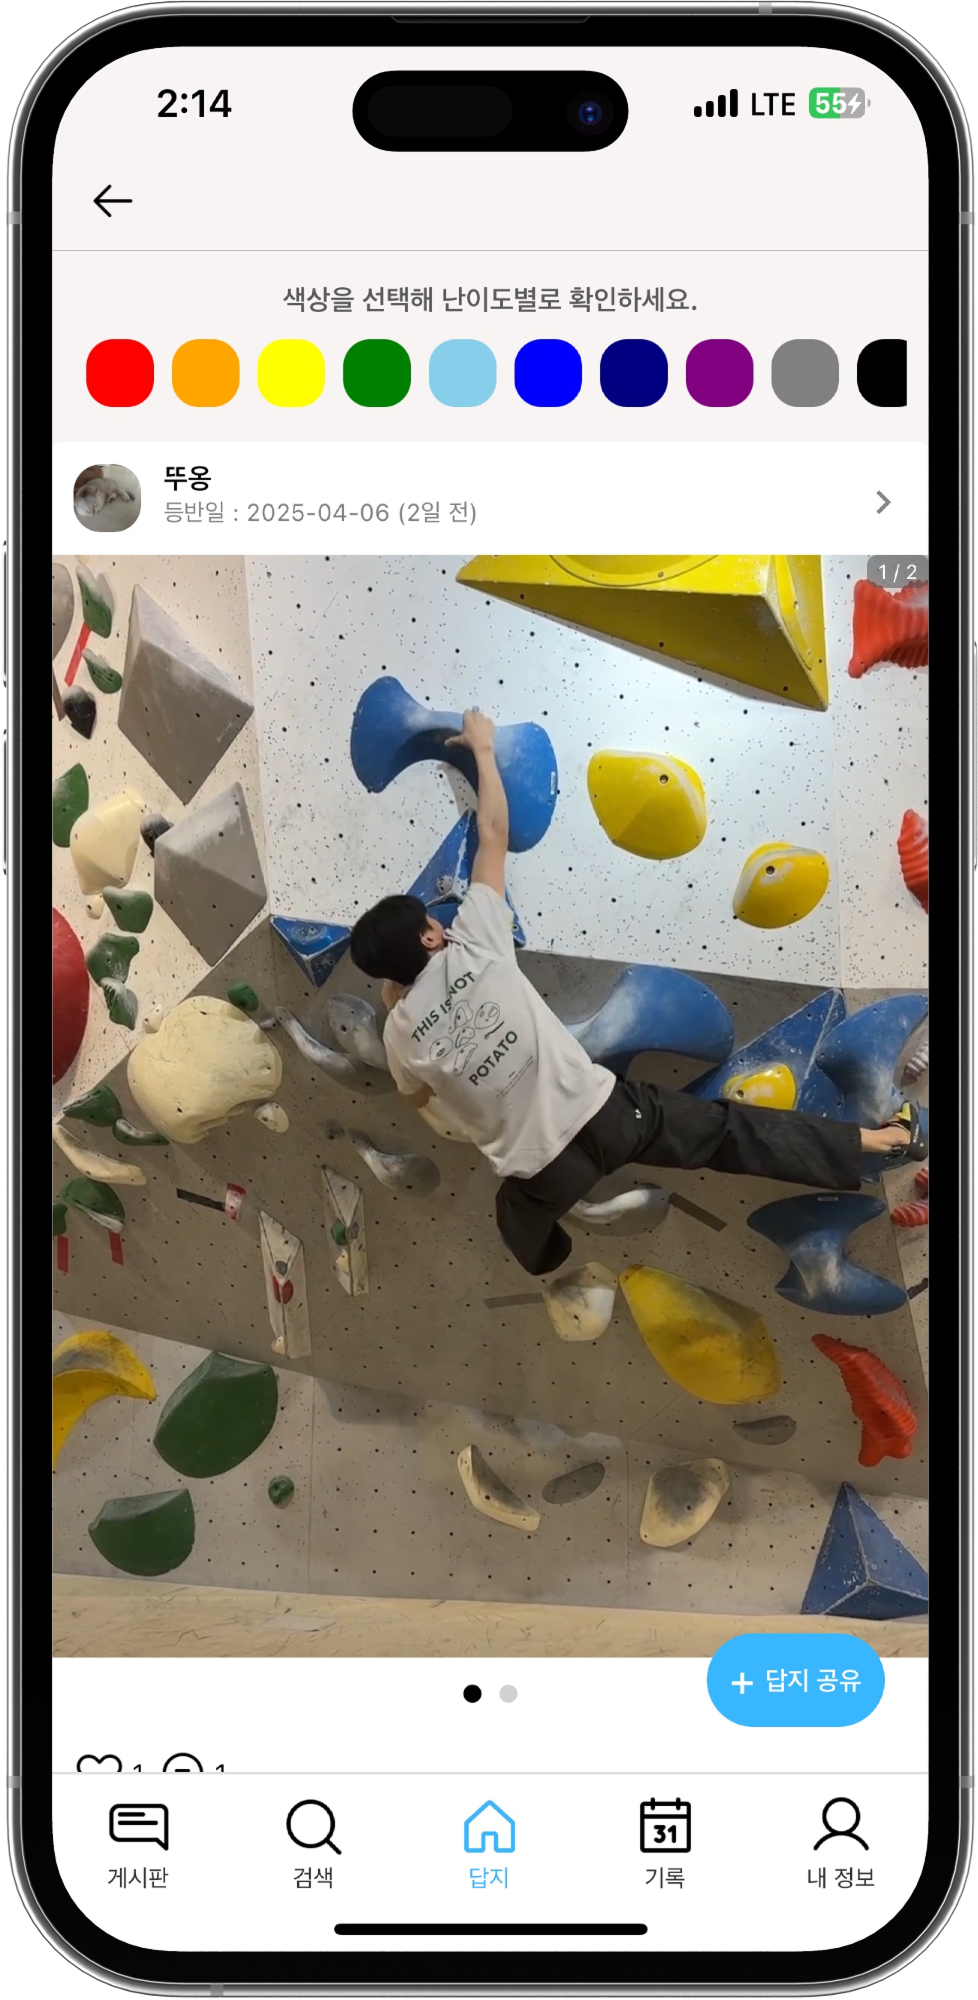
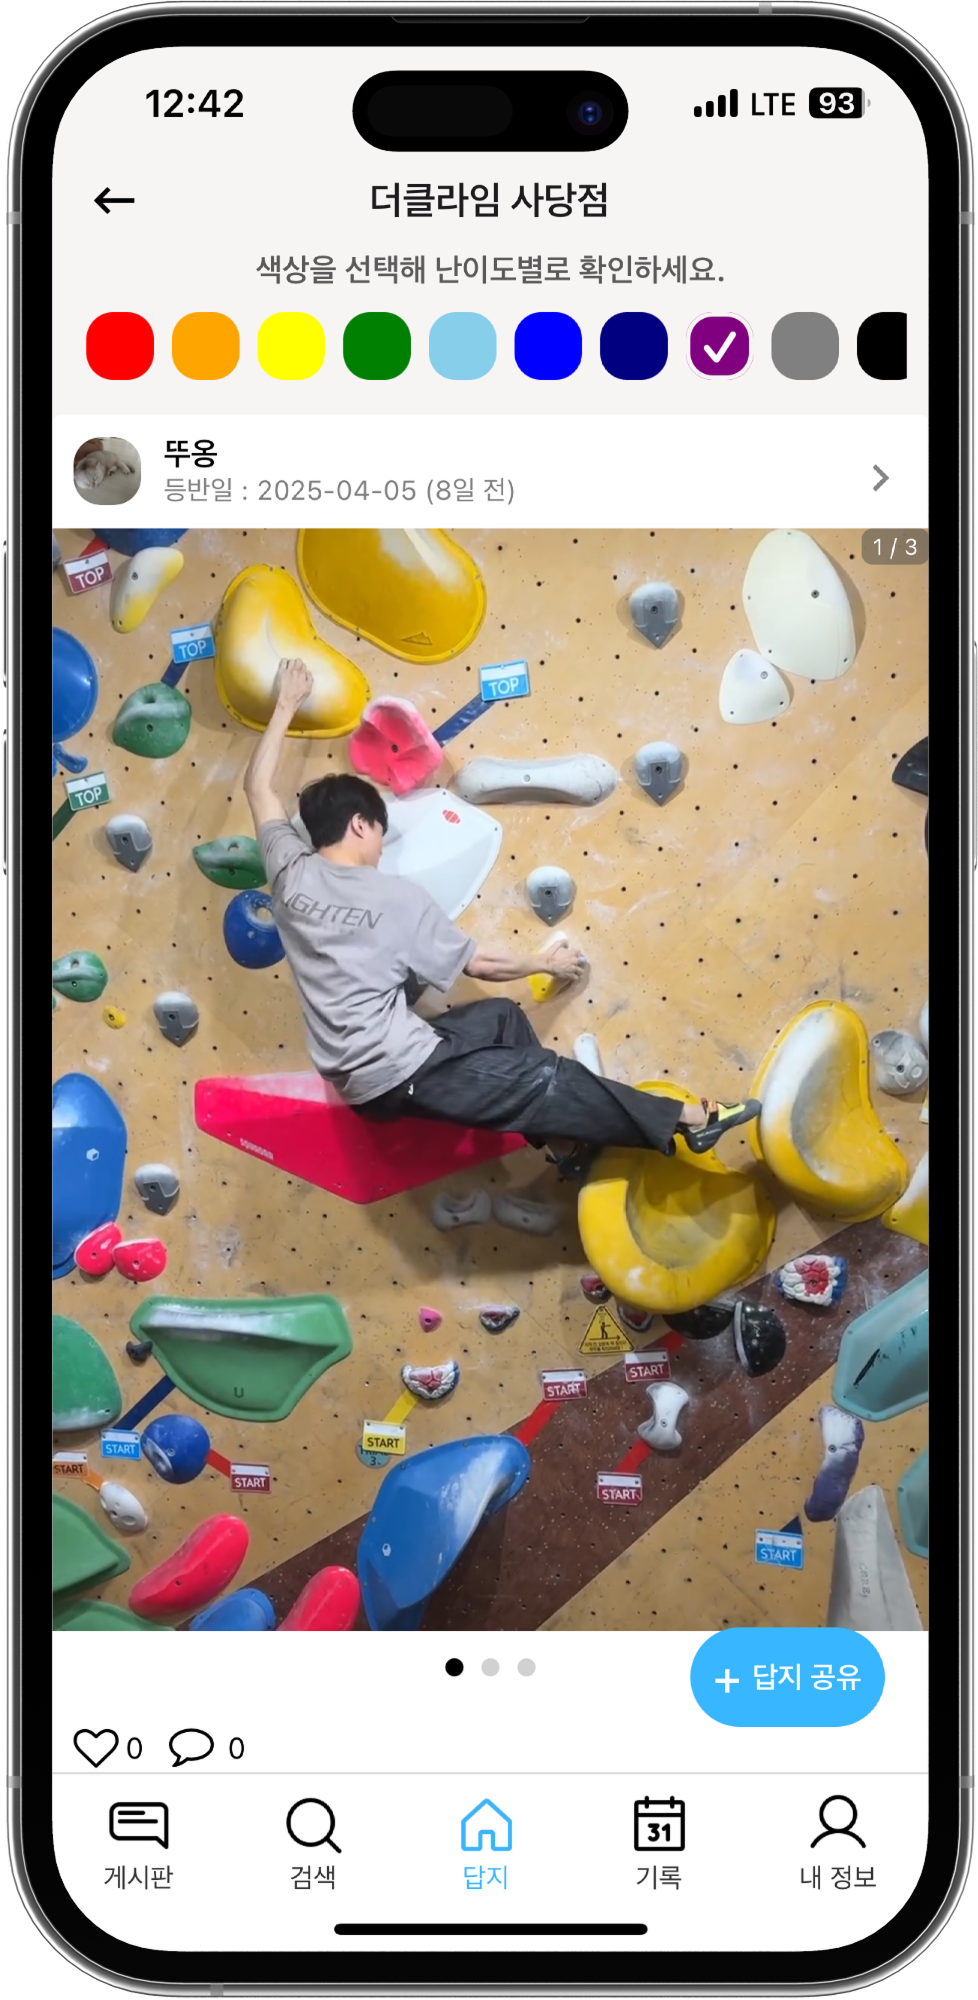
브랜드 섹션 목업 이미지 위치 수정

diff --git a/src/components/landingPage/brandSection/brandSection.module.scss b/src/components/landingPage/brandSection/brandSection.module.scss
@@ -26,27 +26,42 @@
     flex-direction: column;
     display: flex;
     align-items: center;
-    text-align: center;
+    text-align: left;
     padding: 10px;
+
     .slogan {
-      margin-bottom: 20px;
-      @include font-style(3rem, #2f5597, 600);
+      margin-bottom: 0;
+      @include font-style(2rem, #2f5597, 400);
       @media (min-width: 769px) {
-        font-size: 5rem;
+        font-size: 3rem;
       }
     }
+
+    .name {
+      @include font-style(6rem, #2f5597, 600);
+      margin: 0 0 20px 0;
+      @media (min-width: 769px) {
+        font-size: 7rem;
+      }
+    }
+
     .appStore {
       margin-right: 4px;
       background-color: rgba(0, 12, 30, 0.8);
       color: rgb(255, 255, 255);
       font-size: 17px;
-      padding: 11px 22px;
+      padding: 20px 10px;
       border-radius: 10px;
       align-items: center;
       justify-content: center;
       display: flex;
       gap: 10px;
       text-decoration-line: none;
+      max-width: 150px;
+      transition: transform 0.5s ease;
+      &:hover {
+        transform: scale(1.1);
+      }
     }
   }
 
@@ -64,10 +79,13 @@
 
     .content {
       display: flex;
-      justify-content: center;
       flex: 1;
+      margin: auto;
       .slogan {
-        font-size: 6rem;
+        font-size: 3.5rem;
+      }
+      .name {
+        font-size: 9rem;
       }
     }
     .mockup {
@@ -79,9 +97,9 @@
         width: 400px;
         height: 800px;
         position: absolute;
-        left: 0;
-        top: 100px;
-        animation: fadeInUp 1.5s ease-out 1s forwards;
+        left: 80px;
+        top: 150px;
+        animation: fadeInUp 1.5s ease-out 0.7s forwards;
         opacity: 0;
       }
       .mock2 {
@@ -90,7 +108,7 @@
         position: absolute;
         bottom: -90px;
         right: 100px;
-        animation: fadeInUp 1.5s ease-out 1.3s forwards;
+        animation: fadeInUp 1.5s ease-out 1s forwards;
         opacity: 0;
       }
     }

diff --git a/src/components/landingPage/brandSection/index.tsx b/src/components/landingPage/brandSection/index.tsx
@@ -8,27 +8,26 @@ const BrandSection = () => {
   return (
     <section className={cn('container')}>
       <div className={cn('content')}>
-        <h1 className={cn('slogan')}>
-          클라이밍이 쉬워지는 순간,
-          <br />
-          답지
-        </h1>
-        <a
-          className={cn('appStore')}
-          href={process.env.NEXT_PUBLIC_IOS_URL}
-          target="_blank"
-          rel="noopener noreferrer"
-        >
-          <Image
-            src={`${process.env.NEXT_PUBLIC_URL}/icon/applewhitepng.png`}
-            alt="앱스토어"
-            width={20}
-            height={20}
-            className={cn('logo')}
-            priority
-          />
-          App Store
-        </a>
+        <div>
+          <p className={cn('slogan')}>클라이밍이 쉬워지는 순간,</p>
+          <h1 className={cn('name')}>답지</h1>
+          <a
+            className={cn('appStore')}
+            href={process.env.NEXT_PUBLIC_IOS_URL}
+            target="_blank"
+            rel="noopener noreferrer"
+          >
+            <Image
+              src={`${process.env.NEXT_PUBLIC_URL}/icon/applewhitepng.png`}
+              alt="앱스토어"
+              width={20}
+              height={20}
+              className={cn('logo')}
+              priority
+            />
+            App Store
+          </a>
+        </div>
       </div>
 
       <div className={cn('mockup')}>
@@ -37,14 +36,14 @@ const BrandSection = () => {
           alt="앱 이미지 1"
           width={300}
           height={600}
-          className={cn('mockImage', 'mock1')}
+          className={cn('mock1')}
         />
         <Image
           src="/images/mockprofile.png"
           alt="앱 이미지 2"
           width={300}
           height={600}
-          className={cn('mockImage', 'mock2')}
+          className={cn('mock2')}
         />
       </div>
     </section>
